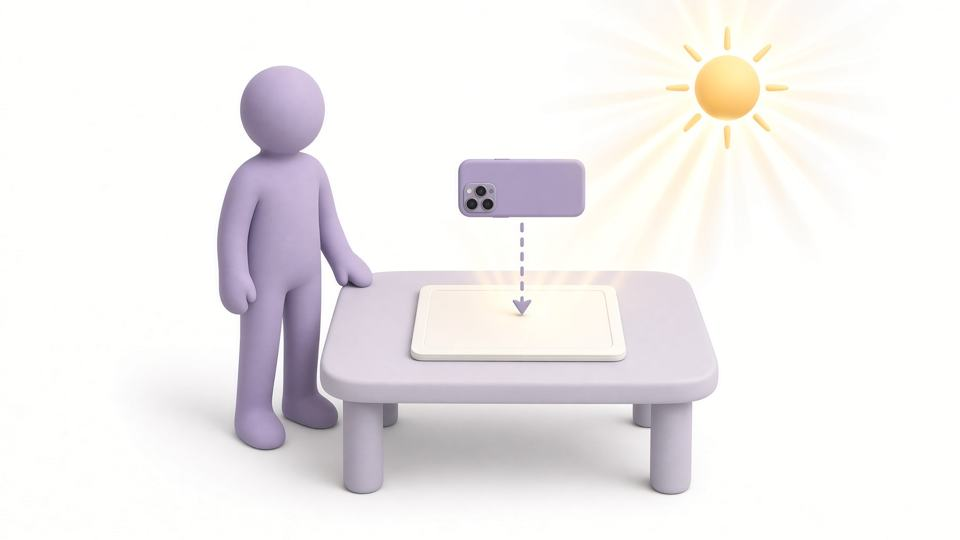
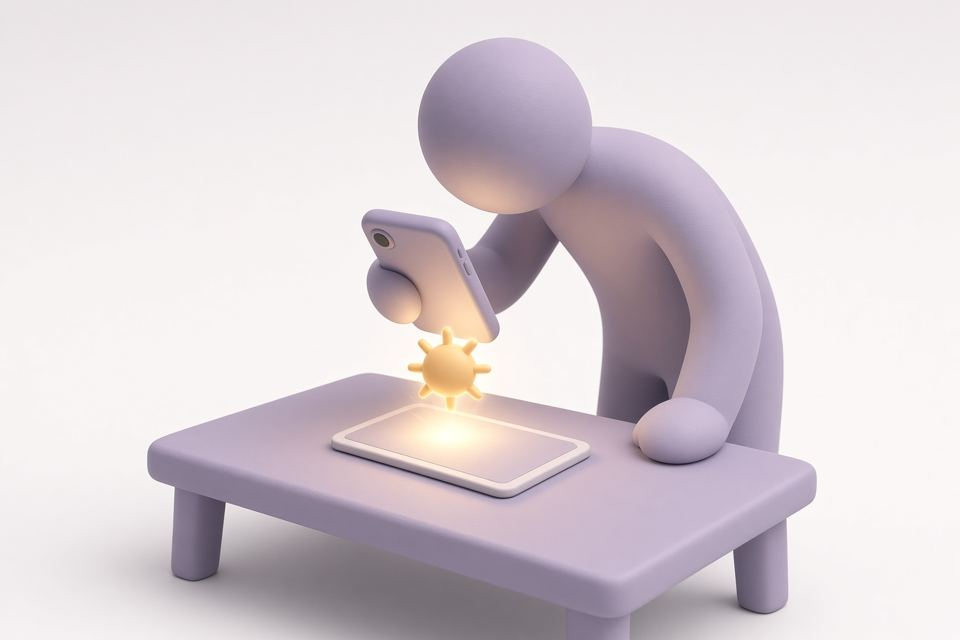
Match the photo guide to the side-view sketch

diff --git a/index.html b/index.html
@@ -571,7 +571,7 @@
         </div>
         <div id="mycards-image-search-result" class="hidden"></div>
         <figure class="bg-white border border-gray-200 rounded-2xl overflow-hidden">
-          <img src="./guide-pictogram.jpg" alt="机に置いて、明るくして、真上から撮る" class="w-full h-auto">
+          <img src="./guide-pictogram.jpg?v=2" alt="机に置いて、明るくして、真上から撮る" class="w-full h-auto">
           <figcaption class="px-3 py-2 text-[12px] text-gray-600">机に置いて、明るくして、真上から撮る</figcaption>
         </figure>
         <div class="flex items-start gap-3">
@@ -1089,7 +1089,7 @@
                         <label class="block font-bold text-gray-800">📷 トレカ写真・AI自動入力 <span id="photo-req-label" class="text-pink-600">（必須・最大3枚）</span></label>
                     </div>
                     <figure class="bg-white border border-gray-200 rounded-xl overflow-hidden">
-                      <img src="./guide-pictogram.jpg" alt="机に置いて、明るくして、真上から撮る" class="w-full h-auto">
+                      <img src="./guide-pictogram.jpg?v=2" alt="机に置いて、明るくして、真上から撮る" class="w-full h-auto">
                       <figcaption class="px-2.5 py-1.5 text-[11px] text-gray-600">机に置いて、明るくして、真上から撮る</figcaption>
                     </figure>
                     <div class="grid grid-cols-2 gap-2">
